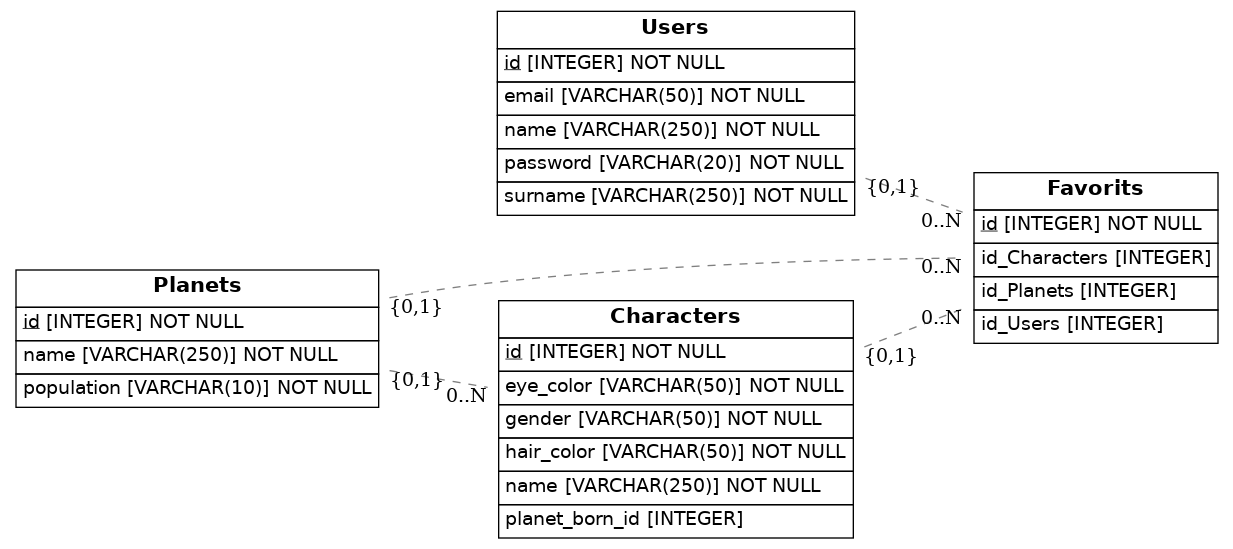
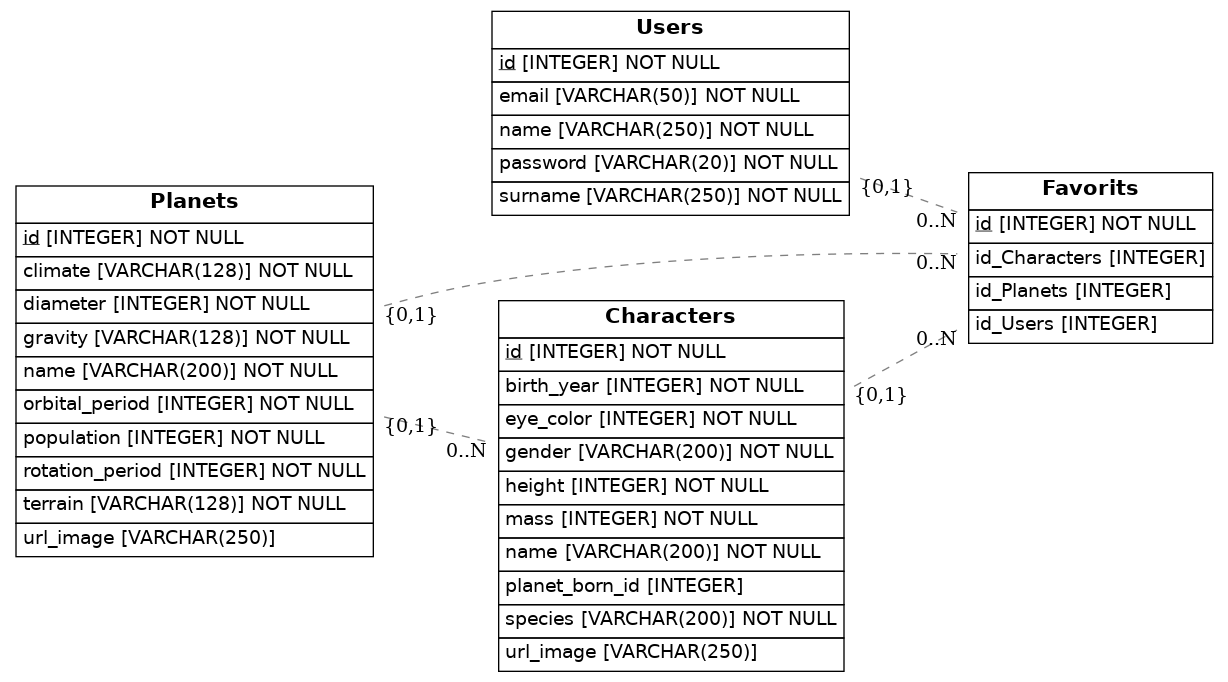
adding new props to modeling database

Changed region(s): [[0.0, 0.0, 0.9902, 0.9909], [0.3094, 0.4335, 0.3404, 0.4645]]

diff --git a/src/models.py b/src/models.py
@@ -22,18 +22,29 @@ class Planets(Base):
     # Here we define columns for the table person
     # Notice that each column is also a normal Python instance attribute.
     id = Column(Integer, primary_key=True)
-    name = Column(String(250), nullable=False)
-    population = Column(String(10), nullable=False)
+    name = Column(String(200), nullable=False)
+    rotation_period = Column(Integer, nullable=False)
+    orbital_period = Column(Integer, nullable=False)
+    diameter = Column(Integer, nullable=False)
+    climate = Column(String(128), nullable=False)
+    gravity = Column(String(128), nullable=False)
+    terrain = Column(String(128), nullable=False)
+    population = Column(Integer, nullable=False)
+    url_image = Column(String(250), unique=False)
 
 class Characters(Base):
     __tablename__ = 'Characters'
     # Here we define columns for the table person
     # Notice that each column is also a normal Python instance attribute.
     id = Column(Integer, primary_key=True)
-    name = Column(String(250), nullable=False)
-    gender = Column(String(50), nullable=False)
-    hair_color = Column(String(50), nullable=False)
-    eye_color = Column(String(50), nullable=False)
+    name = Column(String(200), nullable=False)
+    species = Column(String(200), nullable=False)
+    height = Column(Integer, nullable=False)
+    mass = Column(Integer, nullable=False)
+    eye_color = Column(Integer, nullable=False)
+    birth_year = Column(Integer, nullable=False)
+    gender = Column(String(200), nullable=False)
+    url_image = Column(String(250), unique=False)
     planet_born_id = Column(Integer, ForeignKey('Planets.id'))
 
 class Favorits(Base):
